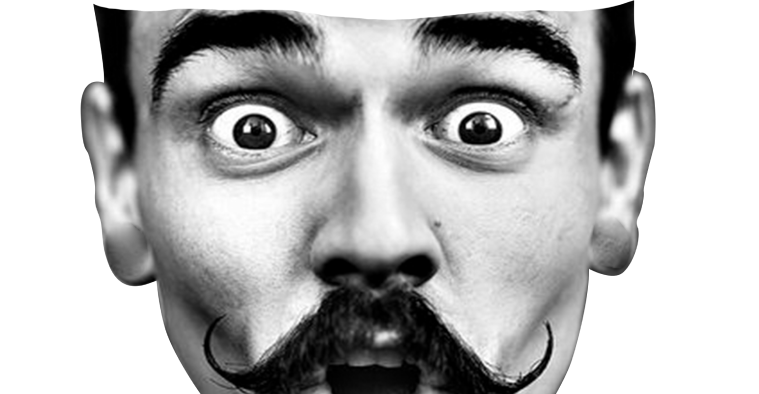
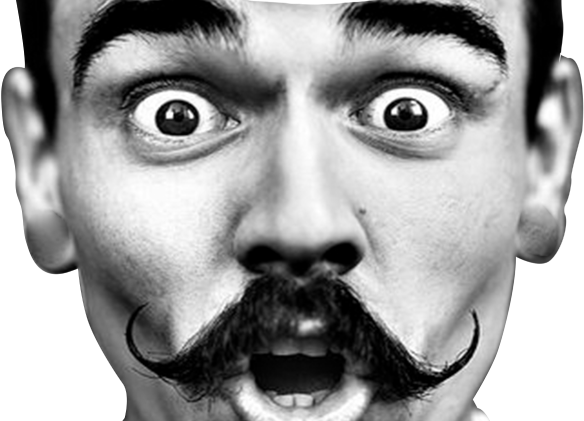
change all elements in hero block and add styles to tablet

diff --git a/styles/main.css b/styles/main.css
@@ -13,74 +13,77 @@ body {
 }
 .hero {
     height: 100vh;
+    width: 80vw;
     display: flex;
     flex-direction: column;
     justify-content: space-between;
     margin: 0 auto;
-    width: 90vw;
     position: fixed;
     left: 4%;
     right: 4%;
     
 }
-.hero__up__list,
-.hero__down__list {
+.hero__img {
+    height: 100vh;
     display: flex;
+    flex-direction: column;
+    justify-content: space-between;
+    align-items: center;
     text-align: center;
-    justify-content: center;
 }
-.hero__up,
-.hero__down {
+.hero__img__up img,
+.hero__img__down img {
     background-color:  #ff9d91;
-}
-.hero__down__list {
-    align-items: flex-end;
-}
-.up__list__item,
-.down__list__item {
-    color: white;
-    font-family: 'Open Sans',sans-serif;
-    font-size: 18px;
-    line-height: 25px;
-}
-.face-up,
-.face-down {
+    padding: 0% 9% 0% 9%;
     width: 100%;
 }
-.face-up {
-    width: 81%;
-    margin-top: -29%;
+.hero__img__down img {
+    margin-bottom: -1%;
 }
-.up__list__item:first-of-type,
-.up__list__item:last-of-type {
-margin-top: 27px;
+.desktop-third,
+.tablet {
+    display: none;
 }
-.up__list__item:last-of-type,
-.down__list__item:first-of-type,
-.down__list__item:last-of-type {
-    text-align: start;
+.hero__text {
+    position: absolute;
+    flex-direction: column;
+    display: flex;
+    align-items: center;
+    justify-content: space-between;
+    height: 100vh;
+    padding: 1%;
 }
-.down__list__item:first-of-type {
-    position: relative;
+.hero__text__up,
+.hero__text__down {
+    width: 80vw;
+    display: flex;
+    align-items: center;
+    justify-content: space-between;
+    color: white;
+    font-family: 'Open Sans',sans-serif;
+    font-size: 28px;
+    line-height: 27px;
 }
-.face-down{
-    width: 125%;
-    margin-bottom: -107%;
-    margin-left: -3%;
-    background-color: #ff9d91;
-}
-
-.down__list__item:first-of-type,
-.down__list__item:last-of-type {
-    margin-bottom: 27px;
-}
-.down__list__item a {
+.down__list__item a,
+.text__down__block a{
     text-decoration: none;
     font-weight: bold;
     color: #FFF6E5;
 }
+.text__down__block:last-of-type {
+    width: 11vw;
+}
+.text__down__block p {
+    margin-bottom: 5px;
+}
 .down__list__socials {
     display: flex;
+}
+.list__socials__item img {
+    width: 2.3vw;
+}
+.list__item__block p {
+    margin-bottom: 5px;
 }
 .list__item__block p {
     margin-bottom: 5px;
@@ -88,7 +91,6 @@ margin-top: 27px;
 .list__socials__item {
     margin-right: 18px;
 }
-
 .content {
     margin: 0 auto;
     width: 60vw;
@@ -334,13 +336,37 @@ h1:after {
 .lamp-img {
     width: 22vw;
 }
-
-@media (max-width: 1024px) {
-    .face-down {
-        margin-bottom: -102%;
+@media (max-width:1440px) {
+    .tablet {
+        display: none;
     }
-    .content {
-        width: 64vw;
+    .hero__text__up,
+    .hero__text__down {
+        font-size: 18px;
+        line-height: 17px;
+    }
+    .hero__img__up,
+    .hero__img__down {
+        background-color:  #ff9d91;
+    }
+    .hero__img__up img,
+    .hero__img__down img {
+        width: 90%;
+        padding: 0 4%;
+    }
+}
+@media (max-width: 1024px) {
+    .desktop,
+    .tablet {
+        display: none;
+    }
+    .desktop-third {
+        display: block;
+    }
+    .hero__img__up img, 
+    .hero__img__down img {
+        width: 100%;
+        padding: 0 9%;
     }
     h1 {
         font-size: 6vw;
@@ -391,14 +417,25 @@ h1:after {
     }
 }
 @media (max-width: 768px) {
-    .face-up {
-        margin-top: -15%;
-        width: 97%;
+    .hero {
+        width: 87vw;
     }
-    .face-down {
-        margin-left: -26%;
-        margin-bottom: -94%;
-        width: 149%;
+    .hero__text {
+        padding: 4% 1%;
+    }
+    .hero__text__up, 
+    .hero__text__down {
+        width: 87vw;
+    }
+    .text__down__block:last-of-type {
+        width: 19vw; 
+    }
+    .desktop,
+    .desktop-third{
+        display: none;
+    }
+    .tablet {
+        display: block;
     }
     .content {
         padding-top: 29%;

diff --git a/index.html b/index.html
@@ -9,46 +9,45 @@
 </head>
 <body>
     <div class="hero">
-        <div class="hero__up">
-            <ul class="hero__up__list">
-                <li class="up__list__item">
-                    <p>Конфетный </p>
-                </li>
-                <li class="up__list__item">
-                    <img src="./img/face-up.png" alt="" class="face-up">
-                </li>
-                <li class="up__list__item">
-                    <p>магазин идей</p>
-                </li>
-            </ul>
+        <div class="hero__img">
+            <div class="hero__img__up">
+                <img src="./img/face-up-desktop.png" alt="" class="desktop">
+                <img src="./img/face-up-desktop-third.png" alt="" class="desktop-third">
+                <img src="./img/face-up-tablet.png" alt="" class="tablet">
+
+            </div>
+            <div class="hero__img__down">
+                <img src="./img/face-down-desktop.png" alt="" class="desktop">
+                <img src="./img/face-down-desktop-third.png" alt="" class="desktop-third">
+                <img src="./img/face-down-tablet.png" alt="" class="tablet">
+
+            </div>
         </div>
-        <div class="hero__down">
-            <ul class="hero__down__list">
-                <li class="down__list__item">
-                    <div class="list__item__block">
-                        <p>Ищите нас тут:</p>
-                        <ul class="down__list__socials">
-                            <li class="list__socials__item">
-                                <img src="./img/fc.svg" alt="">
-                            </li>
-                            <li class="list__socials__item">
-                                <img src="./img/vk.svg" alt="">
-                            </li>
-                            <li class="list__socials__item">
-                                <img src="./img/inst.svg" alt="">
-                            </li>
-                        </ul>
-                    </div>
-                </li>
-                <li class="down__list__item">
-                    <img src="./img/face-down.png" alt="" class="face-down">
-                   
-                </li>
-                <li class="down__list__item">
-                    <p>Больше информации на нашем сайте: </p>
+        <div class="hero__text">
+            <div class="hero__text__up">
+                <div>Конфетный</div>
+                <div>магазин идей</div>
+            </div>
+            <div class="hero__text__down">
+                <div class="text__down__block">
+                    <p>Ищите нас тут:</p>
+                    <ul class="down__list__socials">
+                        <li class="list__socials__item">
+                            <img src="./img/fc.svg" alt="">
+                        </li>
+                        <li class="list__socials__item">
+                            <img src="./img/vk.svg" alt="">
+                        </li>
+                        <li class="list__socials__item">
+                            <img src="./img/inst.svg" alt="">
+                        </li>
+                    </ul>
+                </div>
+                <div class="text__down__block">
+                    <p>Больше информации на нашем сайте:</p>
                     <a href="#">omm.nom.ru</a>
-                </li>
-            </ul>
+                </div>
+            </div>
         </div>
     </div>
     <div class="content">
